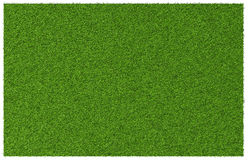
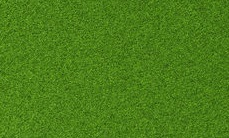
- Cropped grass.jpg so it doesnt have ugly white edges - Removed fluff from boat - Added infinite flowing river animation - Riverbanks now use textureregions - Added functionality to centerstage, now uses standard riverbanks - Removed fluff from gamescreen and added side/center stages

diff --git a/desktop/src/main/nl/tudelft/ti2806/Graphics/GameScreen.java b/desktop/src/main/nl/tudelft/ti2806/Graphics/GameScreen.java
@@ -4,10 +4,7 @@ import com.badlogic.gdx.Gdx;
 import com.badlogic.gdx.assets.AssetManager;
 import com.badlogic.gdx.graphics.GL20;
 import com.badlogic.gdx.graphics.OrthographicCamera;
-import com.badlogic.gdx.graphics.Texture;
-import com.badlogic.gdx.graphics.g2d.TextureRegion;
 import com.badlogic.gdx.scenes.scene2d.Stage;
-import com.badlogic.gdx.scenes.scene2d.ui.Image;
 import com.google.inject.Inject;
 import com.google.inject.Provider;
 import com.google.inject.Singleton;
@@ -17,6 +14,8 @@ public class GameScreen extends AbstractScreen {
 
     // private RunningGame runGame;
     private SideStage leftScreen;
+    private SideStage rightScreen;
+    private CenterStage midScreen;
 
     private Stage leftStage;
     private Stage midStage;
@@ -32,14 +31,17 @@ public class GameScreen extends AbstractScreen {
     @Inject
     public GameScreen(Provider<RiverGame> provider, AssetManager assets) {
         // this.runGame = runGame;
-        this.leftScreen = new SideStage(assets, WIDTH, HEIGHT,
-                "assets/data/left.jpg");
+        this.leftScreen = new SideStage(assets, WIDTH, HEIGHT, true);
+        this.rightScreen = new SideStage(assets, WIDTH, HEIGHT, false);
+        this.midScreen = new CenterStage(assets, WIDTH, HEIGHT);
 
         this.leftStage = new Stage();
         this.midStage = new Stage();
         this.rightStage = new Stage();
 
         this.leftStage.addActor(this.leftScreen);
+        this.rightStage.addActor(this.rightScreen);
+        this.midStage.addActor(this.midScreen);
 
         this.assets = assets;
         this.game = provider.get();
@@ -57,23 +59,25 @@ public class GameScreen extends AbstractScreen {
         this.game.getBatch().setProjectionMatrix(this.camera.combined);
 
         this.leftStage.act(Gdx.graphics.getDeltaTime());
-        Gdx.gl.glViewport(0, 0, Gdx.graphics.getWidth() / 3,
+        Gdx.gl.glViewport(0, 0, Gdx.graphics.getWidth() / 20 * 9,
                 Gdx.graphics.getHeight());
         this.leftStage.draw();
 
         this.midStage.act(Gdx.graphics.getDeltaTime());
-        Gdx.gl.glViewport(Gdx.graphics.getWidth() / 3, 0,
-                Gdx.graphics.getWidth() / 3, Gdx.graphics.getHeight());
+        Gdx.gl.glViewport(Gdx.graphics.getWidth() / 20 * 9, 0,
+                Gdx.graphics.getWidth() / 10, Gdx.graphics.getHeight());
         this.midStage.draw();
 
         this.rightStage.act(Gdx.graphics.getDeltaTime());
-        Gdx.gl.glViewport(Gdx.graphics.getWidth() / 3 * 2, 0,
-                Gdx.graphics.getWidth() / 3, Gdx.graphics.getHeight());
+        Gdx.gl.glViewport(Gdx.graphics.getWidth() / 20 * 11, 0,
+                Gdx.graphics.getWidth() / 20 * 9, Gdx.graphics.getHeight());
         this.rightStage.draw();
 
-        this.game.getBatch().begin();
+        Gdx.gl.glDisable(GL20.GL_BLEND);
 
-        this.game.getBatch().end();
+        // this.game.getBatch().begin();
+        //
+        // this.game.getBatch().end();
     }
 
     @Override
@@ -86,13 +90,15 @@ public class GameScreen extends AbstractScreen {
         // TextureRegion leftregion = new TextureRegion(lefttexture, 0, 0, 472,
         // 455);
 
-        Texture midTex = new Texture(Gdx.files.internal("assets/data/mid.jpg"));
-        TextureRegion midRegion = new TextureRegion(midTex, 0, 0, 275, 183);
-
-        Texture righttexture = new Texture(
-                Gdx.files.internal("assets/data/right.jpg"));
-        TextureRegion rightregion = new TextureRegion(righttexture, 0, 0, 540,
-                540);
+        // Texture midTex = new
+        // Texture(Gdx.files.internal("assets/data/mid.jpg"));
+        // TextureRegion midRegion = new TextureRegion(midTex, 0, 0, 275, 183);
+        //
+        // Texture righttexture = new Texture(
+        // Gdx.files.internal("assets/data/right.jpg"));
+        // TextureRegion rightregion = new TextureRegion(righttexture, 0, 0,
+        // 540,
+        // 540);
 
         // Image leftImage = new Image(leftregion);
         // leftImage.setFillParent(true);
@@ -104,13 +110,13 @@ public class GameScreen extends AbstractScreen {
         // this.leftStage.addActor(river);
         // this.leftStage.addActor(boat);
 
-        Image midImage = new Image(midRegion);
-        midImage.setFillParent(true);
-        this.midStage.addActor(midImage);
-
-        Image rightImage = new Image(rightregion);
-        rightImage.setFillParent(true);
-        this.rightStage.addActor(rightImage);
+        // Image midImage = new Image(midRegion);
+        // midImage.setFillParent(true);
+        // this.midStage.addActor(midImage);
+        //
+        // Image rightImage = new Image(rightregion);
+        // rightImage.setFillParent(true);
+        // this.rightStage.addActor(rightImage);
     }
 
     @Override

diff --git a/core/src/main/nl/tudelft/ti2806/riverrush/domain/entity/Boat.java b/core/src/main/nl/tudelft/ti2806/riverrush/domain/entity/Boat.java
@@ -1,12 +1,11 @@
 package nl.tudelft.ti2806.riverrush.domain.entity;
 
 import com.badlogic.gdx.assets.AssetManager;
+import com.badlogic.gdx.graphics.GL20;
 import com.badlogic.gdx.graphics.Texture;
 import com.badlogic.gdx.graphics.g2d.Batch;
-import com.badlogic.gdx.graphics.g2d.SpriteBatch;
 import com.badlogic.gdx.graphics.g2d.TextureRegion;
 import com.badlogic.gdx.scenes.scene2d.Actor;
-import com.badlogic.gdx.scenes.scene2d.actions.MoveToAction;
 import com.google.inject.Inject;
 
 /**
@@ -15,17 +14,17 @@ import com.google.inject.Inject;
 public class Boat extends Actor implements Group {
 
     private AssetManager manager;
-    private float xPos;
-    private float yPos;
-    private float WIDTH;
-    private float HEIGHT;
+
+    // private float xPos;
+    // private float yPos;
+    // private float WIDTH;
+    // private float HEIGHT;
 
     // For Testing
-    private SpriteBatch batch;
+    // private SpriteBatch batch;
 
     @Inject
-    public Boat(AssetManager assetManager, float x, float y, float w, float h,
-            SpriteBatch batch) {
+    public Boat(AssetManager assetManager, float x, float y, float w, float h) {
         this.manager = assetManager;
         // this.xPos = x;
         // this.yPos = y;
@@ -38,7 +37,7 @@ public class Boat extends Actor implements Group {
         this.setWidth(w);
         this.setHeight(h);
 
-        this.batch = batch;
+        // this.batch = batch;
 
         // RotateToAction action = new RotateToAction();
         // action.setRotation(90f);
@@ -50,10 +49,10 @@ public class Boat extends Actor implements Group {
         // scale.setDuration(5f);
         // this.addAction(scale);
 
-        MoveToAction move = new MoveToAction();
-        move.setPosition(1000, 1000);
-        move.setDuration(5f);
-        this.addAction(move);
+        // MoveToAction move = new MoveToAction();
+        // move.setPosition(1000, 1000);
+        // move.setDuration(5f);
+        // this.addAction(move);
         // this.addAction(Actions.moveTo(100f, 100f, 5f));
 
     }
@@ -70,9 +69,14 @@ public class Boat extends Actor implements Group {
         // batch.draw(region, this.xPos, this.yPos, 0f, 0f, this.WIDTH,
         // this.HEIGHT, this.getScaleX(), this.getScaleY(),
         // this.getRotation());
+        batch.enableBlending();
+        batch.setBlendFunction(GL20.GL_SRC_ALPHA, GL20.GL_ONE_MINUS_SRC_ALPHA); // GL11.GL_SRC_ALPHA,
+                                                                                // GL11.GL_ONE_MINUS_SRC_ALPHA
+
         batch.draw(region, this.getX(), this.getY(), this.getOriginX(),
                 this.getOriginY(), this.getWidth(), this.getHeight(),
                 this.getScaleX(), this.getScaleY(), this.getRotation());
+        batch.disableBlending();
     }
 
     @Override

diff --git a/core/src/main/nl/tudelft/ti2806/riverrush/domain/entity/River.java b/core/src/main/nl/tudelft/ti2806/riverrush/domain/entity/River.java
@@ -1,9 +1,16 @@
 package nl.tudelft.ti2806.riverrush.domain.entity;
 
+import static com.badlogic.gdx.scenes.scene2d.actions.Actions.forever;
+import static com.badlogic.gdx.scenes.scene2d.actions.Actions.sequence;
+
 import com.badlogic.gdx.assets.AssetManager;
 import com.badlogic.gdx.graphics.Texture;
 import com.badlogic.gdx.graphics.g2d.Batch;
+import com.badlogic.gdx.graphics.g2d.TextureRegion;
 import com.badlogic.gdx.scenes.scene2d.Actor;
+import com.badlogic.gdx.scenes.scene2d.actions.MoveToAction;
+import com.badlogic.gdx.scenes.scene2d.actions.RepeatAction;
+import com.badlogic.gdx.scenes.scene2d.actions.SequenceAction;
 import com.google.inject.Inject;
 
 public class River extends Actor {
@@ -13,21 +20,48 @@ public class River extends Actor {
     private float yPos;
     private float WIDTH;
     private float HEIGHT;
+    private boolean isLeft;
 
     @Inject
-    public River(AssetManager assetManager, float x, float y, float w, float h) {
+    public River(AssetManager assetManager, float x, float y, float w, float h,
+            boolean left) {
         this.manager = assetManager;
-        this.yPos = y;
-        this.xPos = x;
-        this.WIDTH = w;
-        this.HEIGHT = h;
+        // this.yPos = y;
+        // this.xPos = x;
+        // this.WIDTH = w;
+        // this.HEIGHT = h;
+
+        // this.setX(x);
+        // this.setY(y);
+        // this.setY(h);
+        this.setPosition(x, h);
+        this.setWidth(w);
+        this.setHeight(h);
+        this.isLeft = left;
+
+        MoveToAction moveDown = new MoveToAction();
+        moveDown.setPosition(x, y);
+        moveDown.setDuration(1f);
+
+        MoveToAction moveUp = new MoveToAction();
+        moveUp.setPosition(x, h * -1);
+
+        SequenceAction seq = sequence(moveUp, moveDown);
+        RepeatAction rep = forever(seq);
+
+        this.addAction(rep);
     }
 
     @Override
     public void draw(Batch batch, float parentAlpha) {
-        super.draw(batch, parentAlpha);
-        batch.draw(this.manager.get("assets/data/river.jpg", Texture.class),
-                this.xPos, this.yPos, this.WIDTH, this.HEIGHT);
+        // super.draw(batch, parentAlpha);
+        // batch.draw(this.manager.get("assets/data/river.jpg", Texture.class),
+        // this.xPos, this.yPos, this.WIDTH, this.HEIGHT);
+        Texture tex = this.manager.get("assets/data/river.jpg", Texture.class);
+        TextureRegion region = new TextureRegion(tex, 0, 0, 570, 570);
+        batch.draw(region, this.getX(), this.getY(), this.getOriginX(),
+                this.getOriginY(), this.getWidth(), this.getHeight() * 2,
+                this.getScaleX(), this.getScaleY(), this.getRotation());
     }
 
     @Override

diff --git a/desktop/src/main/nl/tudelft/ti2806/Graphics/SideStage.java b/desktop/src/main/nl/tudelft/ti2806/Graphics/SideStage.java
@@ -6,7 +6,6 @@ import nl.tudelft.ti2806.riverrush.domain.entity.RiverBanks;
 
 import com.badlogic.gdx.assets.AssetManager;
 import com.badlogic.gdx.graphics.g2d.Batch;
-import com.badlogic.gdx.graphics.g2d.SpriteBatch;
 import com.google.inject.Inject;
 
 public class SideStage extends AbstractStage {
@@ -17,16 +16,12 @@ public class SideStage extends AbstractStage {
 
     @Inject
     public SideStage(AssetManager assets, float width, float height,
-            String fileName) {
+            boolean left) {
         this.setBounds(0, 0, width, height);
-        // Texture tex = new Texture(Gdx.files.internal(fileName));
-        // this.background = new Image(tex);
-
-        SpriteBatch batch = new SpriteBatch();
 
         this.background = new RiverBanks(assets, 0, 0, width, height);
-        this.boat = new Boat(assets, width / 2, height / 2, 200, 200, batch);
-        this.river = new River(assets, 192, 0, 1536, 1080);
+        this.boat = new Boat(assets, width / 2, height / 2, 200, 200);
+        this.river = new River(assets, 192, 0, 1536, 1080, left);
         this.addActor(this.background);
         this.addActor(this.river);
         this.addActor(this.boat);

diff --git a/core/src/main/nl/tudelft/ti2806/riverrush/domain/entity/RiverBanks.java b/core/src/main/nl/tudelft/ti2806/riverrush/domain/entity/RiverBanks.java
@@ -3,6 +3,7 @@ package nl.tudelft.ti2806.riverrush.domain.entity;
 import com.badlogic.gdx.assets.AssetManager;
 import com.badlogic.gdx.graphics.Texture;
 import com.badlogic.gdx.graphics.g2d.Batch;
+import com.badlogic.gdx.graphics.g2d.TextureRegion;
 import com.badlogic.gdx.scenes.scene2d.Actor;
 import com.google.inject.Inject;
 
@@ -13,6 +14,7 @@ public class RiverBanks extends Actor {
     private float yPos;
     private float WIDTH;
     private float HEIGHT;
+    private static final String FILENAME = "assets/data/grass.jpg";
 
     @Inject
     public RiverBanks(AssetManager assetManager, float x, float y, float w,
@@ -27,8 +29,9 @@ public class RiverBanks extends Actor {
     @Override
     public void draw(Batch batch, float parentAlpha) {
         super.draw(batch, parentAlpha);
-        batch.draw(this.manager.get("assets/data/grass.jpg", Texture.class),
-                this.xPos, this.yPos, this.WIDTH, this.HEIGHT);
+        Texture tex = this.manager.get(FILENAME, Texture.class);
+        TextureRegion region = new TextureRegion(tex, 0, 0, 229, 138);
+        batch.draw(region, this.xPos, this.yPos, this.WIDTH, this.HEIGHT);
     }
 
     @Override

diff --git a/desktop/src/main/nl/tudelft/ti2806/Graphics/CenterStage.java b/desktop/src/main/nl/tudelft/ti2806/Graphics/CenterStage.java
@@ -1,5 +1,32 @@
 package nl.tudelft.ti2806.Graphics;
 
+import nl.tudelft.ti2806.riverrush.domain.entity.RiverBanks;
+
+import com.badlogic.gdx.assets.AssetManager;
+import com.badlogic.gdx.graphics.g2d.Batch;
+import com.google.inject.Inject;
+
 public class CenterStage extends AbstractStage {
+
+    private RiverBanks background;
+
+    @Inject
+    public CenterStage(AssetManager assets, float width, float height) {
+        this.setBounds(0, 0, width, height);
+
+        this.background = new RiverBanks(assets, 0, 0, width, height);
+        this.addActor(this.background);
+
+    }
+
+    @Override
+    public void act(float delta) {
+        super.act(delta);
+    }
+
+    @Override
+    public void draw(Batch batch, float parentAlpha) {
+        super.draw(batch, parentAlpha);
+    }
 
 }
